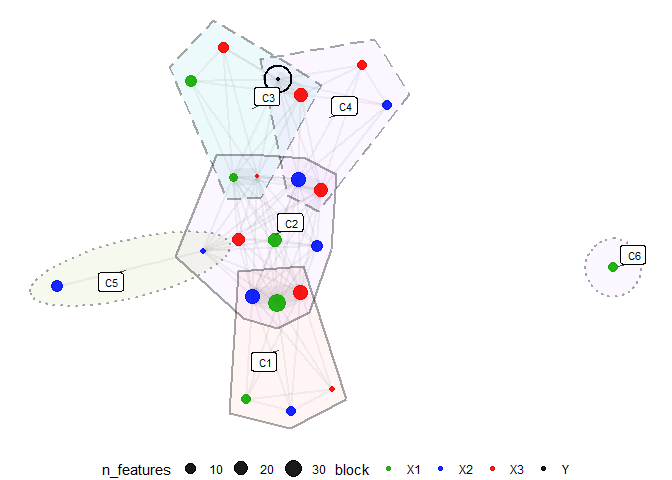
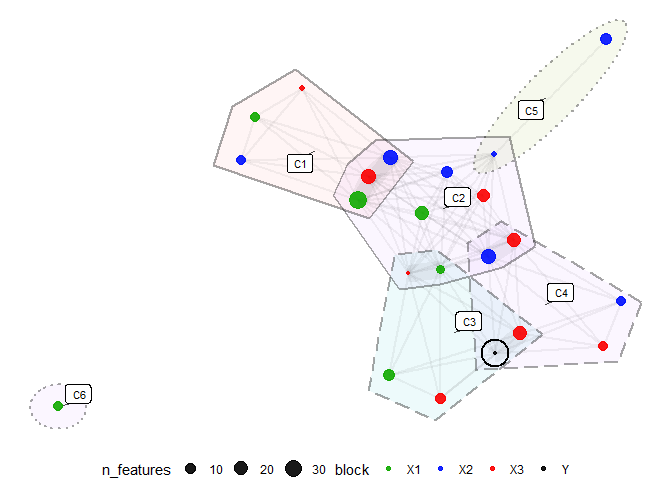
pkg 0.01h

diff --git a/tutorials/PESCAR_simulation_tutorial.md b/tutorials/PESCAR_simulation_tutorial.md
@@ -15,7 +15,6 @@ Fred White
 - [Rotate selected model](#rotate-selected-model)
 - [Label components](#label-components)
 - [Loading profiles](#loading-profiles)
-- [Component relationship graph](#component-relationship-graph)
 - [Compare true and estimated
   scores](#compare-true-and-estimated-scores)
 - [Threshold the loading matrix and plot
@@ -366,13 +365,6 @@ lambdas_y <- lambda_y_vals[index_min_cv]
 
 PESCARmod <- result_CV$TrainModel[[index_min_cv]]
 ```
-
-``` r
-plot(result_CV$cvErrors_mat[,1],result_CV$cvErrors_mat[,5])
-lines(front[,1],front[,5])
-```
-
-![](../vignettes/PESCAR_simulation_tutorial_files/figure-gfm/quick-pareto-plot-1.png)<!-- -->
 
 # Pareto front plot
 
@@ -824,181 +816,6 @@ for(i in 1:length(columns)){
   ggsave(plot = r_VE + PESCA_lod_Struc_ggplot, file = paste0(column,"_PModShape_PESCAR.png"), width = 21, height = 9)
 }
 ```
-
-# Component relationship graph
-
-Component relationships and response association.
-
-``` r
-library(igraph)
-library(dplyr)
-library(tidyr)
-library(tidygraph)
-library(lubridate)
-library(ggraph)
-library(tidygraph)
-
-set.seed(123)
-B_y_ord <- B[,order(abs(Coefs), decreasing = T)]
-
-colnames(B_y_ord) <- paste0("PC",1:ncol(B_y_ord))
-
-cor_matrix <- as.matrix(cor(B_y_ord))
-
-Coefs_ord <- Coefs[order(abs(Coefs), decreasing = T)]
-
-cor_matrix <- cbind(Coefs_ord, cor_matrix)
-cor_matrix <- rbind(c(1,Coefs_ord), cor_matrix)
-
-cor_matrix[lower.tri(cor_matrix)] <- t(cor_matrix)[lower.tri(cor_matrix)]
-diag(cor_matrix) <- 1
-
-cor_matrix[which(is.na(cor_matrix))] <- 0
-
-colnames(cor_matrix) <- c("Y",paste0("PC",c(1:opts$R)))
-
-g <- graph_from_adjacency_matrix(
-  cor_matrix,
-  mode = "undirected",
-  weighted = TRUE,
-  diag = FALSE
-)
-
-x <- PESCARmod$outcome$varExpPCs[,order(abs(Coefs), decreasing = T)]
-
-SCALLY_WAH <- function(i){i/max(abs(i))}
-
-x1 <- sweep(x, 1, pmax(1, ncol(x) - rowSums(x != 0)), FUN = "/")
-x1 <- x1[1:3,]
-x1 <- apply(x1[,],2,SCALLY_WAH)
-x1[which(is.na(x1))] <- 0
-x1[x1<0] <- 0
-
-r <- x1[3,]
-gr <- x1[1,]
-b <- x1[2,]
-
-col <- rgb(r, gr, b)
-dim(col) <- dim(r)
-
-col <- c("#002060", col)
-
-V(g)$colour <- col
-
-threshold <- 0.1
-
-g <- delete_edges(g, E(g)[abs(weight) < threshold])
-
-g <- delete_vertices(simplify(g), degree(g)==0)
-
-edge_weights <- E(g)$weight
-edge_colors  <- ifelse(edge_weights > 0, "red", "blue")
-
-E(g)$weight <- abs(E(g)$weight)
-
-E(g)$colour <- edge_colors
-
-set.seed(125)
-
-plot(
-  g,
-  layout = layout_with_kk(g),
-  vertex.color       = V(g)$colour,
-  vertex.size        = 15,
-  vertex.label = NA,
-  edge.width         = abs(edge_weights),
-  edge.color         = edge_colors
-)
-```
-
-![](../vignettes/PESCAR_simulation_tutorial_files/figure-gfm/component-relationship-graph-1.png)<!-- -->
-
-``` r
-
-V(g)$shape <- gsub("\\d$","",names(V(g)))
-
-tg <- as_tbl_graph(g)
-```
-
-``` r
-p <- ggraph(tg, layout = "kk") +
-
-  geom_edge_link(aes(edge_width = weight, color = I(colour))) +
-
-  geom_node_point(aes(color = I(colour), shape = shape), size = 0) +
-
-  theme_void() +
-  scale_edge_width(range = c(0.5, 1), guide = "none") +
-  scale_shape_discrete(guide = "none")
-
-library(ggraph)
-library(tidygraph)
-library(igraph)
-library(ggplot2)
-
-set.seed(124)
-
-layout_data <- create_layout(tg, layout = "kk")
-
-col <- V(g)$colour
-
-y_model <- do.call(cbind,Data[1:3]) %*% PESCARmod$outcome$W_k %*% Coefs
-
-offset <- 0.15
-
-i <- NULL
-for (i in seq_len(nrow(layout_data))) {
-  x_i <- layout_data$x[i]
-  y_i <- layout_data$y[i]
-
-  if(i == 1){
-
-    mat <- as.matrix(y_model)
-
-  }else{
-
-    mat <- as.matrix(A_y_ord[,(i - 1)])
-
-  }
-
-  mat_scaled <- (mat - min(mat)) / (max(mat) - min(mat))
-
-  pal <- colorRampPalette(c("white",col[i],"black"))(256)
-
-  mat_colors <- pal[as.integer(mat_scaled * 255) + 1]
-
-  mat_colors <- matrix(mat_colors, nrow = nrow(mat), ncol = ncol(mat))
-
-  p <- p + annotation_raster(
-    raster = mat_colors,
-    xmin   = x_i - offset, xmax = x_i + offset,
-    ymin   = y_i - offset, ymax = y_i + offset,
-    interpolate = FALSE
-  )
-}
-
-p <- p +
-  geom_node_text(aes(label = name),
-                 repel = TRUE,
-                 color = "black")
-
-x_range <- range(layout_data$x)
-y_range <- range(layout_data$y)
-
-p <- p + coord_cartesian(
-  xlim = c(x_range[1] - offset, x_range[2] + offset),
-  ylim = c(y_range[1] - offset, y_range[2] + offset),
-  clip = "off"
-)
-
-p <- p + theme(
-  plot.margin = unit(c(1,1,1,1), "cm")
-)
-
-print(p)
-```
-
-![](../vignettes/PESCAR_simulation_tutorial_files/figure-gfm/component-relationship-ggraph-1.png)<!-- -->
 
 # Compare true and estimated scores
 
